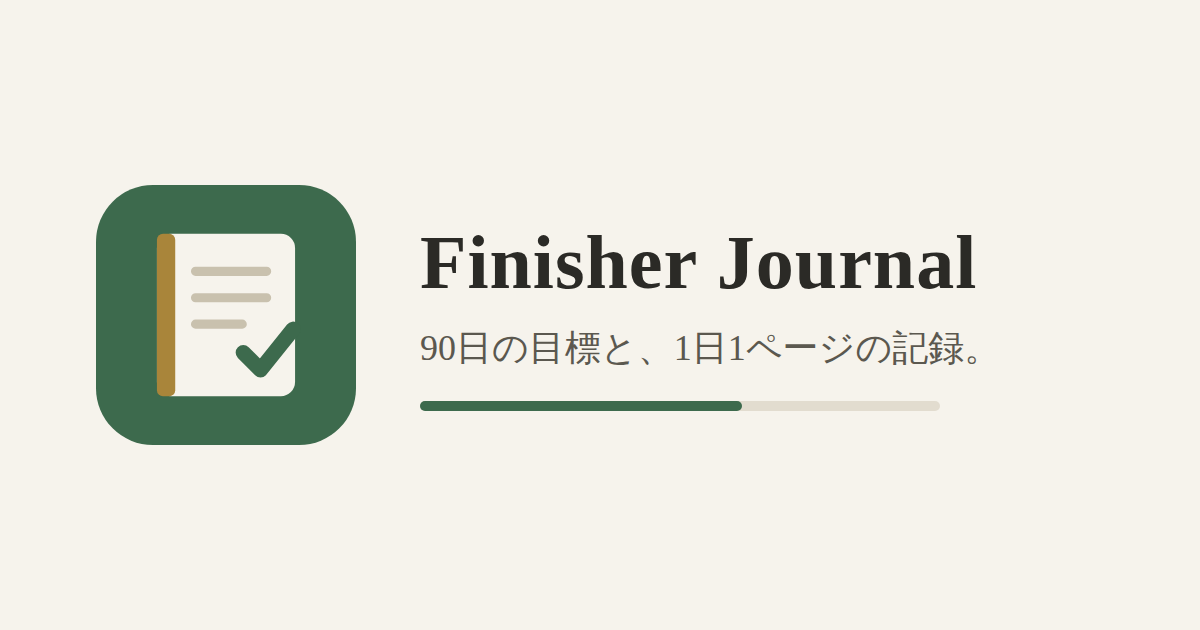
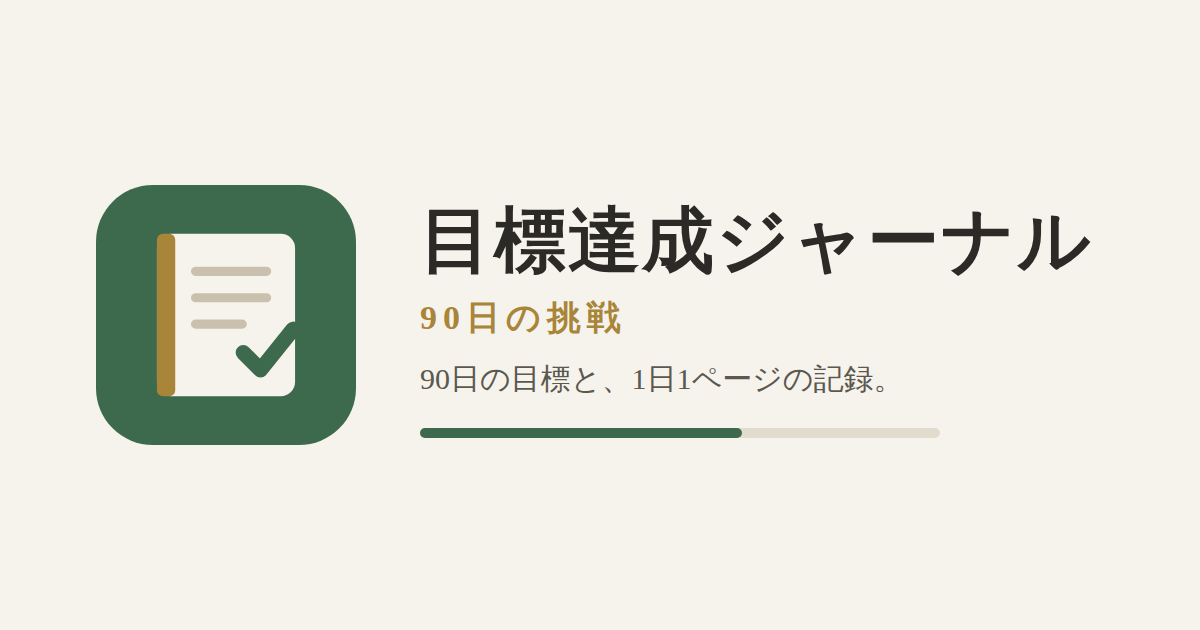
アプリ名を「目標達成ジャーナル｜90日の挑戦」に変更
- ヘッダー、ログイン画面、タブ名、ホーム画面追加時の名前、OGP画像、デモを新しい名前に
- Notion に付けるタグも「目標達成ジャーナル」に変更
- ヘッダーのマークをアイコン画像に

Claude-Session: https://claude.ai/code/session_01AS5y535BeDTwhnksNtPTb3

Changed region(s): [[0.3392, 0.3317, 0.925, 0.6937]]

diff --git a/src/web/login.html b/src/web/login.html
@@ -4,21 +4,21 @@
     <meta charset="UTF-8" />
     <!-- ===== Google 標準セット（web-google-standard） ここから ===== -->
     <meta name="viewport" content="width=device-width, initial-scale=1, viewport-fit=cover" />
-    <title>ログイン | Finisher Journal</title>
-    <meta name="description" content="90日ごとに目標を立て、1日1ページのジャーナルで積み上げる。紙のフィニッシャージャーナルをWebで続けるための、悠三堂の個人用ジャーナルアプリです。" />
+    <title>ログイン | 目標達成ジャーナル｜90日の挑戦</title>
+    <meta name="description" content="90日ごとに目標を立て、1日1ページのジャーナルで積み上げる。90日の挑戦をやりきるための、悠三堂の目標達成ジャーナルです。" />
     <meta name="robots" content="index,follow" />
     <link rel="canonical" href="https://journal.yusando.com/login" />
     <meta property="og:type" content="website" />
-    <meta property="og:site_name" content="Finisher Journal" />
-    <meta property="og:title" content="Finisher Journal" />
-    <meta property="og:description" content="90日ごとに目標を立て、1日1ページのジャーナルで積み上げる。紙のフィニッシャージャーナルをWebで。" />
+    <meta property="og:site_name" content="目標達成ジャーナル｜90日の挑戦" />
+    <meta property="og:title" content="目標達成ジャーナル｜90日の挑戦" />
+    <meta property="og:description" content="90日ごとに目標を立て、1日1ページのジャーナルで積み上げる。90日の挑戦をやりきるための目標達成ジャーナル。" />
     <meta property="og:url" content="https://journal.yusando.com/login" />
     <meta property="og:image" content="https://journal.yusando.com/og.png" />
     <meta property="og:image:width" content="1200" />
     <meta property="og:image:height" content="630" />
     <meta property="og:locale" content="ja_JP" />
     <meta name="twitter:card" content="summary_large_image" />
-    <meta name="twitter:title" content="Finisher Journal" />
+    <meta name="twitter:title" content="目標達成ジャーナル｜90日の挑戦" />
     <meta name="twitter:description" content="90日ごとに目標を立て、1日1ページのジャーナルで積み上げる。" />
     <meta name="twitter:image" content="https://journal.yusando.com/og.png" />
     <script type="application/ld+json">
@@ -36,7 +36,7 @@
           {
             "@type": "WebApplication",
             "@id": "https://journal.yusando.com/#app",
-            "name": "Finisher Journal",
+            "name": "目標達成ジャーナル",
             "url": "https://journal.yusando.com/login",
             "applicationCategory": "ProductivityApplication",
             "operatingSystem": "Web",
@@ -76,13 +76,14 @@
     <link rel="preconnect" href="https://fonts.gstatic.com" crossorigin />
     <link href="https://fonts.googleapis.com/css2?family=Noto+Serif+JP:wght@500;700&display=swap" rel="stylesheet" />
     <style>
-      :root { --bg: #f6f3ec; --surface: #fffdf8; --ink: #2b2a26; --muted: #767268; --line: #e2dccf; --accent: #3d6a4d; --accent-ink: #fff; --warn: #a94f36; }
-      @media (prefers-color-scheme: dark) { :root { --bg: #181a18; --surface: #212421; --ink: #ecebe4; --muted: #a3a097; --line: #353933; --accent: #8cc09b; --accent-ink: #13231a; --warn: #e79a82; } }
+      :root { --bg: #f6f3ec; --surface: #fffdf8; --ink: #2b2a26; --muted: #767268; --line: #e2dccf; --accent: #3d6a4d; --accent-ink: #fff; --warn: #a94f36; --gold: #a9853a; }
+      @media (prefers-color-scheme: dark) { :root { --bg: #181a18; --surface: #212421; --ink: #ecebe4; --muted: #a3a097; --line: #353933; --accent: #8cc09b; --accent-ink: #13231a; --warn: #e79a82; --gold: #d6b46a; } }
       * { box-sizing: border-box; }
       body { margin: 0; min-height: 100vh; display: grid; place-items: center; background: var(--bg); color: var(--ink); font-family: 'Hiragino Sans', 'Noto Sans JP', system-ui, sans-serif; padding: 16px; }
       main { width: 100%; max-width: 420px; background: var(--surface); border: 1px solid var(--line); border-radius: 16px; padding: 40px 28px; text-align: center; }
       .mark { width: 56px; height: 56px; margin: 0 auto 16px; }
       h1 { font-family: 'Noto Serif JP', 'Hiragino Mincho ProN', serif; font-weight: 700; font-size: 28px; margin: 0 0 8px; letter-spacing: .02em; }
+      .sub { color: var(--gold) !important; font-weight: 700; letter-spacing: .12em; margin: -4px 0 16px !important; }
       p { color: var(--muted); line-height: 1.8; margin: 0 0 28px; font-size: 15px; }
       .btn { display: inline-flex; align-items: center; justify-content: center; gap: 10px; width: 100%; padding: 14px 18px; border-radius: 10px; background: var(--accent); color: var(--accent-ink); text-decoration: none; font-weight: 600; font-size: 16px; }
       .btn:hover { filter: brightness(1.05); }
@@ -96,7 +97,8 @@
   <body>
     <main>
       <img class="mark" src="/icon.svg" alt="" width="56" height="56" />
-      <h1>Finisher Journal</h1>
+      <h1>目標達成ジャーナル</h1>
+      <p class="sub">90日の挑戦</p>
       <p>90日の目標と、1日1ページの記録。<br />やりきるためのジャーナル。</p>
       <p class="error" id="error" role="alert"></p>
       <a class="btn" id="login" href="/auth/google">Googleでログイン</a>

diff --git a/src/web/index.html b/src/web/index.html
@@ -5,14 +5,14 @@
     <meta name="viewport" content="width=device-width, initial-scale=1, viewport-fit=cover" />
     <!-- ログイン後の画面は本人専用: 検索に載せず、計測もしない -->
     <meta name="robots" content="noindex,nofollow" />
-    <title>Finisher Journal</title>
+    <title>目標達成ジャーナル</title>
     <meta name="theme-color" content="#f6f3ec" media="(prefers-color-scheme: light)" />
     <meta name="theme-color" content="#181a18" media="(prefers-color-scheme: dark)" />
     <link rel="manifest" href="/manifest.webmanifest" />
     <link rel="icon" href="/icon.svg" type="image/svg+xml" />
     <link rel="apple-touch-icon" href="/apple-touch-icon.png" />
     <meta name="apple-mobile-web-app-capable" content="yes" />
-    <meta name="apple-mobile-web-app-title" content="Journal" />
+    <meta name="apple-mobile-web-app-title" content="目標達成ジャーナル" />
     <link rel="preconnect" href="https://fonts.googleapis.com" />
     <link rel="preconnect" href="https://fonts.gstatic.com" crossorigin />
     <link href="https://fonts.googleapis.com/css2?family=Noto+Serif+JP:wght@500;700&display=swap" rel="stylesheet" />

diff --git a/src/web/styles.css b/src/web/styles.css
@@ -99,7 +99,10 @@ h1, h2, h3 { margin: 0; line-height: 1.4; }
   border-bottom: 1px solid var(--line);
 }
 .brand { display: flex; align-items: center; gap: 8px; color: var(--ink); font-family: var(--serif); font-weight: 700; font-size: 17px; text-decoration: none !important; white-space: nowrap; }
-.brand-mark { display: grid; place-items: center; width: 28px; height: 28px; border-radius: 8px; background: var(--accent); color: var(--accent-ink); font-size: 16px; }
+.brand-mark { width: 30px; height: 30px; border-radius: 8px; flex: none; }
+.brand-text { display: flex; flex-direction: column; line-height: 1.15; }
+.brand-name { font-size: 16px; }
+.brand-sub { font-family: var(--sans); font-size: 11px; font-weight: 600; color: var(--gold); letter-spacing: .08em; }
 .tabs { display: flex; gap: 4px; margin: 0 auto; background: var(--surface-2); padding: 4px; border-radius: 999px; }
 .tabs a, .settings-link { padding: 6px 18px; border-radius: 999px; color: var(--muted); font-weight: 600; text-decoration: none !important; white-space: nowrap; }
 .tabs a.active { background: var(--surface); color: var(--ink); box-shadow: var(--shadow); }

diff --git a/src/web/components/NotionPicker.tsx b/src/web/components/NotionPicker.tsx
@@ -41,7 +41,7 @@ export function NotionPicker({ date, onClose, onPicked }: { date: string; onClos
 
   return (
     <Modal title="Notion の Todo リストから選ぶ" onClose={onClose} wide>
-      <p className="muted small">Inbox・今週の対応事項・今月対応予定・未着手 の行から選べます。選んだ行には今日の日付とタグ「フィニッシャージャーナル」が付きます。</p>
+      <p className="muted small">Inbox・今週の対応事項・今月対応予定・未着手 の行から選べます。選んだ行には今日の日付とタグ「目標達成ジャーナル」が付きます。</p>
       <input className="search" placeholder="キーワード・タグ・場所で絞り込み" value={q} onChange={(e) => setQ(e.target.value)} autoFocus />
       {error && <p className="form-error">{error}</p>}
       {!items && !error && <Loading />}

diff --git a/src/web/components/Layout.tsx b/src/web/components/Layout.tsx
@@ -17,8 +17,11 @@ export function Layout() {
     <div className="app">
       <header className="topbar">
         <NavLink to="/today" className="brand">
-          <span className="brand-mark" aria-hidden="true">F</span>
-          <span>Finisher Journal</span>
+          <img className="brand-mark" src="/icon.svg" alt="" width="28" height="28" />
+          <span className="brand-text">
+            <span className="brand-name">目標達成ジャーナル</span>
+            <span className="brand-sub">90日の挑戦</span>
+          </span>
         </NavLink>
         <nav className="tabs" aria-label="メイン">
           {TABS.map((t) => (

diff --git a/src/worker/notion.ts b/src/worker/notion.ts
@@ -1,5 +1,5 @@
 // 既存の Notion データベース「🎒 Todo リスト」との同期。
-// アプリが触るのはタグ「フィニッシャージャーナル」が付いた行だけ。
+// アプリが触るのはタグ「目標達成ジャーナル」が付いた行だけ。
 import { todayJST } from '../shared/dates';
 import type { TaskStatus } from '../shared/progress';
 import { all, one, run } from './db';

diff --git a/src/demo/backend.ts b/src/demo/backend.ts
@@ -122,7 +122,7 @@ export async function startDemo() {
     APP_URL: location.origin,
     ALLOWED_EMAILS: DEMO_USER.email,
     NOTION_TASKS_DB_ID: '',
-    NOTION_JOURNAL_TAG: 'フィニッシャージャーナル',
+    NOTION_JOURNAL_TAG: '目標達成ジャーナル',
     NOTION_ASSIGNEE: '',
   } as unknown as Env;
 

diff --git a/src/demo/index.html b/src/demo/index.html
@@ -1,5 +1,5 @@
 <!doctype html>
 <html lang="ja">
-  <head><meta charset="UTF-8" /><title>Finisher Journal</title></head>
+  <head><meta charset="UTF-8" /><title>目標達成ジャーナル</title></head>
   <body><div id="root"></div><script type="module" src="./main.tsx"></script></body>
 </html>

diff --git a/docs/SPEC.md b/docs/SPEC.md
@@ -1,4 +1,6 @@
-# フィニッシャージャーナル Web版 仕様書
+# 目標達成ジャーナル｜90日の挑戦 仕様書
+
+アプリ名: **目標達成ジャーナル**（副題: 90日の挑戦）。紙の「フィニッシャージャーナル」をもとにしている。
 
 - 版: v0.5（紙版に合わせて、数値目標・大きな障害と対策・時間があればやることを追加）
 - 作成日: 2026-09-27
@@ -224,7 +226,7 @@ Googleカレンダーの予定はアプリのDBには保存しない（常にGoo
 |---|---|
 | 連携先 | データベース `6ecc0a27e7af4782be9c2b022a75b0e8`（データソース `4bbd6ef0-428f-4999-bbff-64cae31fac27`）。Wrangler secret `NOTION_TASKS_DB_ID` に設定 |
 | 認証 | Notion 内部インテグレーションのトークン（`NOTION_TOKEN`）。ユーザーが Notion の「設定 → コネクト」で作成し、「MY LIFE OS」ページにコネクトを追加する（子の Todo リストにも権限が及ぶ） |
-| 触る範囲 | **タグに「フィニッシャージャーナル」が付いた行だけ**。それ以外の行（ルーティン、来客、家族の用事など）は読み書きしない |
+| 触る範囲 | **タグに「目標達成ジャーナル」が付いた行だけ**。それ以外の行（ルーティン、来客、家族の用事など）は読み書きしない |
 | 同期方向 | アプリ → Notion: 作成・タイトル変更・状態変更・日付移動・取り下げを即時反映。Notion → アプリ: 完了チェック・ステータス・日付の変更、および新規行（タグ＋日付あり）を取り込む。タスク名は Notion 側の変更も取り込む（本人が直した、とみなす） |
 | 取り込みのタイミング | デイリーページ／台帳を開いたとき、および 15分ごとの Cron Trigger。`last_edited_time` が前回同期より新しい行だけ取得 |
 | 衝突 | 最後に同期した値を覚えておき、Notion 側で変わった項目だけを取り込む（自分の書き込みの跳ね返りは無視）。同期は「取り込み → 送信」の順で行い、Notion での編集を古い値で上書きしない |
@@ -239,13 +241,13 @@ Googleカレンダーの予定はアプリのDBには保存しない（常にGoo
 | Date | 日付 | 予定日（日付のみ、時刻なし） |
 | ステータス | セレクト | 未着手→「未着手」／できた→「完了」／できなかった→「**できなかった**」（新規選択肢。初回の書き込みで自動追加）／取り下げ→「キャンセル」。別の日へ送ったときは行を複製せず、**同じ行の Date を送り先に移す**（内容の「送った回数」が増える） |
 | Checked | チェックボックス | 「できた」のとき ON。Notion で手早くチェックする用 |
-| タグ | マルチセレクト | 「**フィニッシャージャーナル**」を必ず付ける（新規選択肢）。紐づく目標があれば目標名のタグも追加（例「カフェ作り」）。既存のタグは消さない |
+| タグ | マルチセレクト | 「**目標達成ジャーナル**」を必ず付ける（新規選択肢）。紐づく目標があれば目標名のタグも追加（例「カフェ作り」）。既存のタグは消さない |
 | 内容 | テキスト | `Day 12 ｜ 目標: ○○ ｜ 送った回数: 1` の形で自動記入 |
 | URL | URL | デイリーページへのリンク（末尾に `#task-<アプリID>` を含め、照合キーにも使う） |
 | 担当者 | マルチセレクト | 「礒﨑遼太郎」 |
 | 優先度／場所／所要時間／プライベート ほか | — | アプリからは触らない（Notion 側で自由に使える） |
 
-追加される選択肢は **ステータス「できなかった」とタグ「フィニッシャージャーナル」の2つ**のみ（2026-09-27 承認済み）。Notion API で値を書いたときに自動で作られる。
+追加される選択肢は **ステータス「できなかった」とタグ「目標達成ジャーナル」の2つ**のみ（2026-09-27 承認済み）。Notion API で値を書いたときに自動で作られる。
 
 **Notion → アプリ の解釈**
 
@@ -256,7 +258,7 @@ Googleカレンダーの予定はアプリのDBには保存しない（常にGoo
 | ステータス「延期」 | できなかった（台帳で「送る」候補として表示。日付の自動移動はしない） |
 | ステータス「キャンセル」 | 取り下げ |
 | Date を変更 | その日のタスクへ移動。移動先が3件埋まっていれば4件目以降を「Notionから」の別枠に表示（3つ固定の原則は崩さない） |
-| タグ「フィニッシャージャーナル」＋Date を付けた新規行 | その日のタスクとして取り込む。日付がなければ取り込まない |
+| タグ「目標達成ジャーナル」＋Date を付けた新規行 | その日のタスクとして取り込む。日付がなければ取り込まない |
 | タグを外す | 同期対象から外れる（アプリ側のタスクは残し、Notionリンクだけ切る） |
 
 **Notion からタスクを選ぶ（供給元としての利用）**
@@ -264,7 +266,7 @@ Googleカレンダーの予定はアプリのDBには保存しない（常にGoo
 Todo リストには「Inbox／今月対応予定／今週の対応事項／未着手」の行が溜まっているので、デイリーページの「やるべきこと3つ」に **「Notionから選ぶ」** ボタンを置く。
 
 - ステータスが Inbox／今月対応予定／今週の対応事項／未着手 で、まだジャーナルに紐づいていない行を一覧（優先度「高 🔥」を上に、タグ・場所で絞り込み）
-- 選ぶと、その行に タグ「フィニッシャージャーナル」と Date（今日）と URL を付け、今日の3つに入る。Notion 側でもその日の予定として見える
+- 選ぶと、その行に タグ「目標達成ジャーナル」と Date（今日）と URL を付け、今日の3つに入る。Notion 側でもその日の予定として見える
 - 選ぶだけで **Notion 側の行は複製しない**（1タスク＝1行を守る）
 
 習慣目標・良かったこと・メモは Notion に送らない（フェーズ2で「良かったこと」の同期を検討）。
@@ -388,7 +390,7 @@ sync_state       (key, value)                                -- Notion 取り込
 | 繰り越し | 自動では繰り越さない。「できなかった」から今日／明日へ送る操作を用意 |
 | 良かったこと | 3行固定 |
 | 週次・月次のふりかえり | 6.3節の項目で実装（紙版の項目があれば名称を合わせる） |
-| Notion | 既存「🎒 Todo リスト」に同期。選択肢「できなかった」とタグ「フィニッシャージャーナル」を追加。「Notionから選ぶ」も含める |
+| Notion | 既存「🎒 Todo リスト」に同期。選択肢「できなかった」とタグ「目標達成ジャーナル」を追加。「Notionから選ぶ」も含める |
 | 「できなかった」の判定 | 日付が変わった時点。設定で「翌日の正午」に変更可能 |
 
 **残っている確認事項**

diff --git a/README.md b/README.md
@@ -1,6 +1,6 @@
-# Finisher Journal Online
+# 目標達成ジャーナル｜90日の挑戦
 
-紙の「フィニッシャージャーナル」（90日ジャーナル）の Web アプリ版です。
+紙の「フィニッシャージャーナル」（90日ジャーナル）をもとにした Web アプリです。
 3ヶ月（1ターム）の目標を立て、1日1ページのジャーナルで「やるべきこと3つ」を積み上げ、
 週・月・3ヶ月の単位で予定とふりかえりを行います。
 
@@ -80,8 +80,8 @@ npx wrangler secret put NOTION_TOKEN
 ```
 
 同期先のデータベース ID、タグ名、担当者名は `wrangler.toml` の `[vars]` にあります。
-ステータスの「できなかった」とタグの「フィニッシャージャーナル」は、最初に書き込んだときに Notion 側で自動的に選択肢として追加されます。
-アプリが読み書きするのはタグ「フィニッシャージャーナル」が付いた行だけです。
+ステータスの「できなかった」とタグの「目標達成ジャーナル」は、最初に書き込んだときに Notion 側で自動的に選択肢として追加されます。
+アプリが読み書きするのはタグ「目標達成ジャーナル」が付いた行だけです。
 
 ### 4. URL（ドメイン）
 
